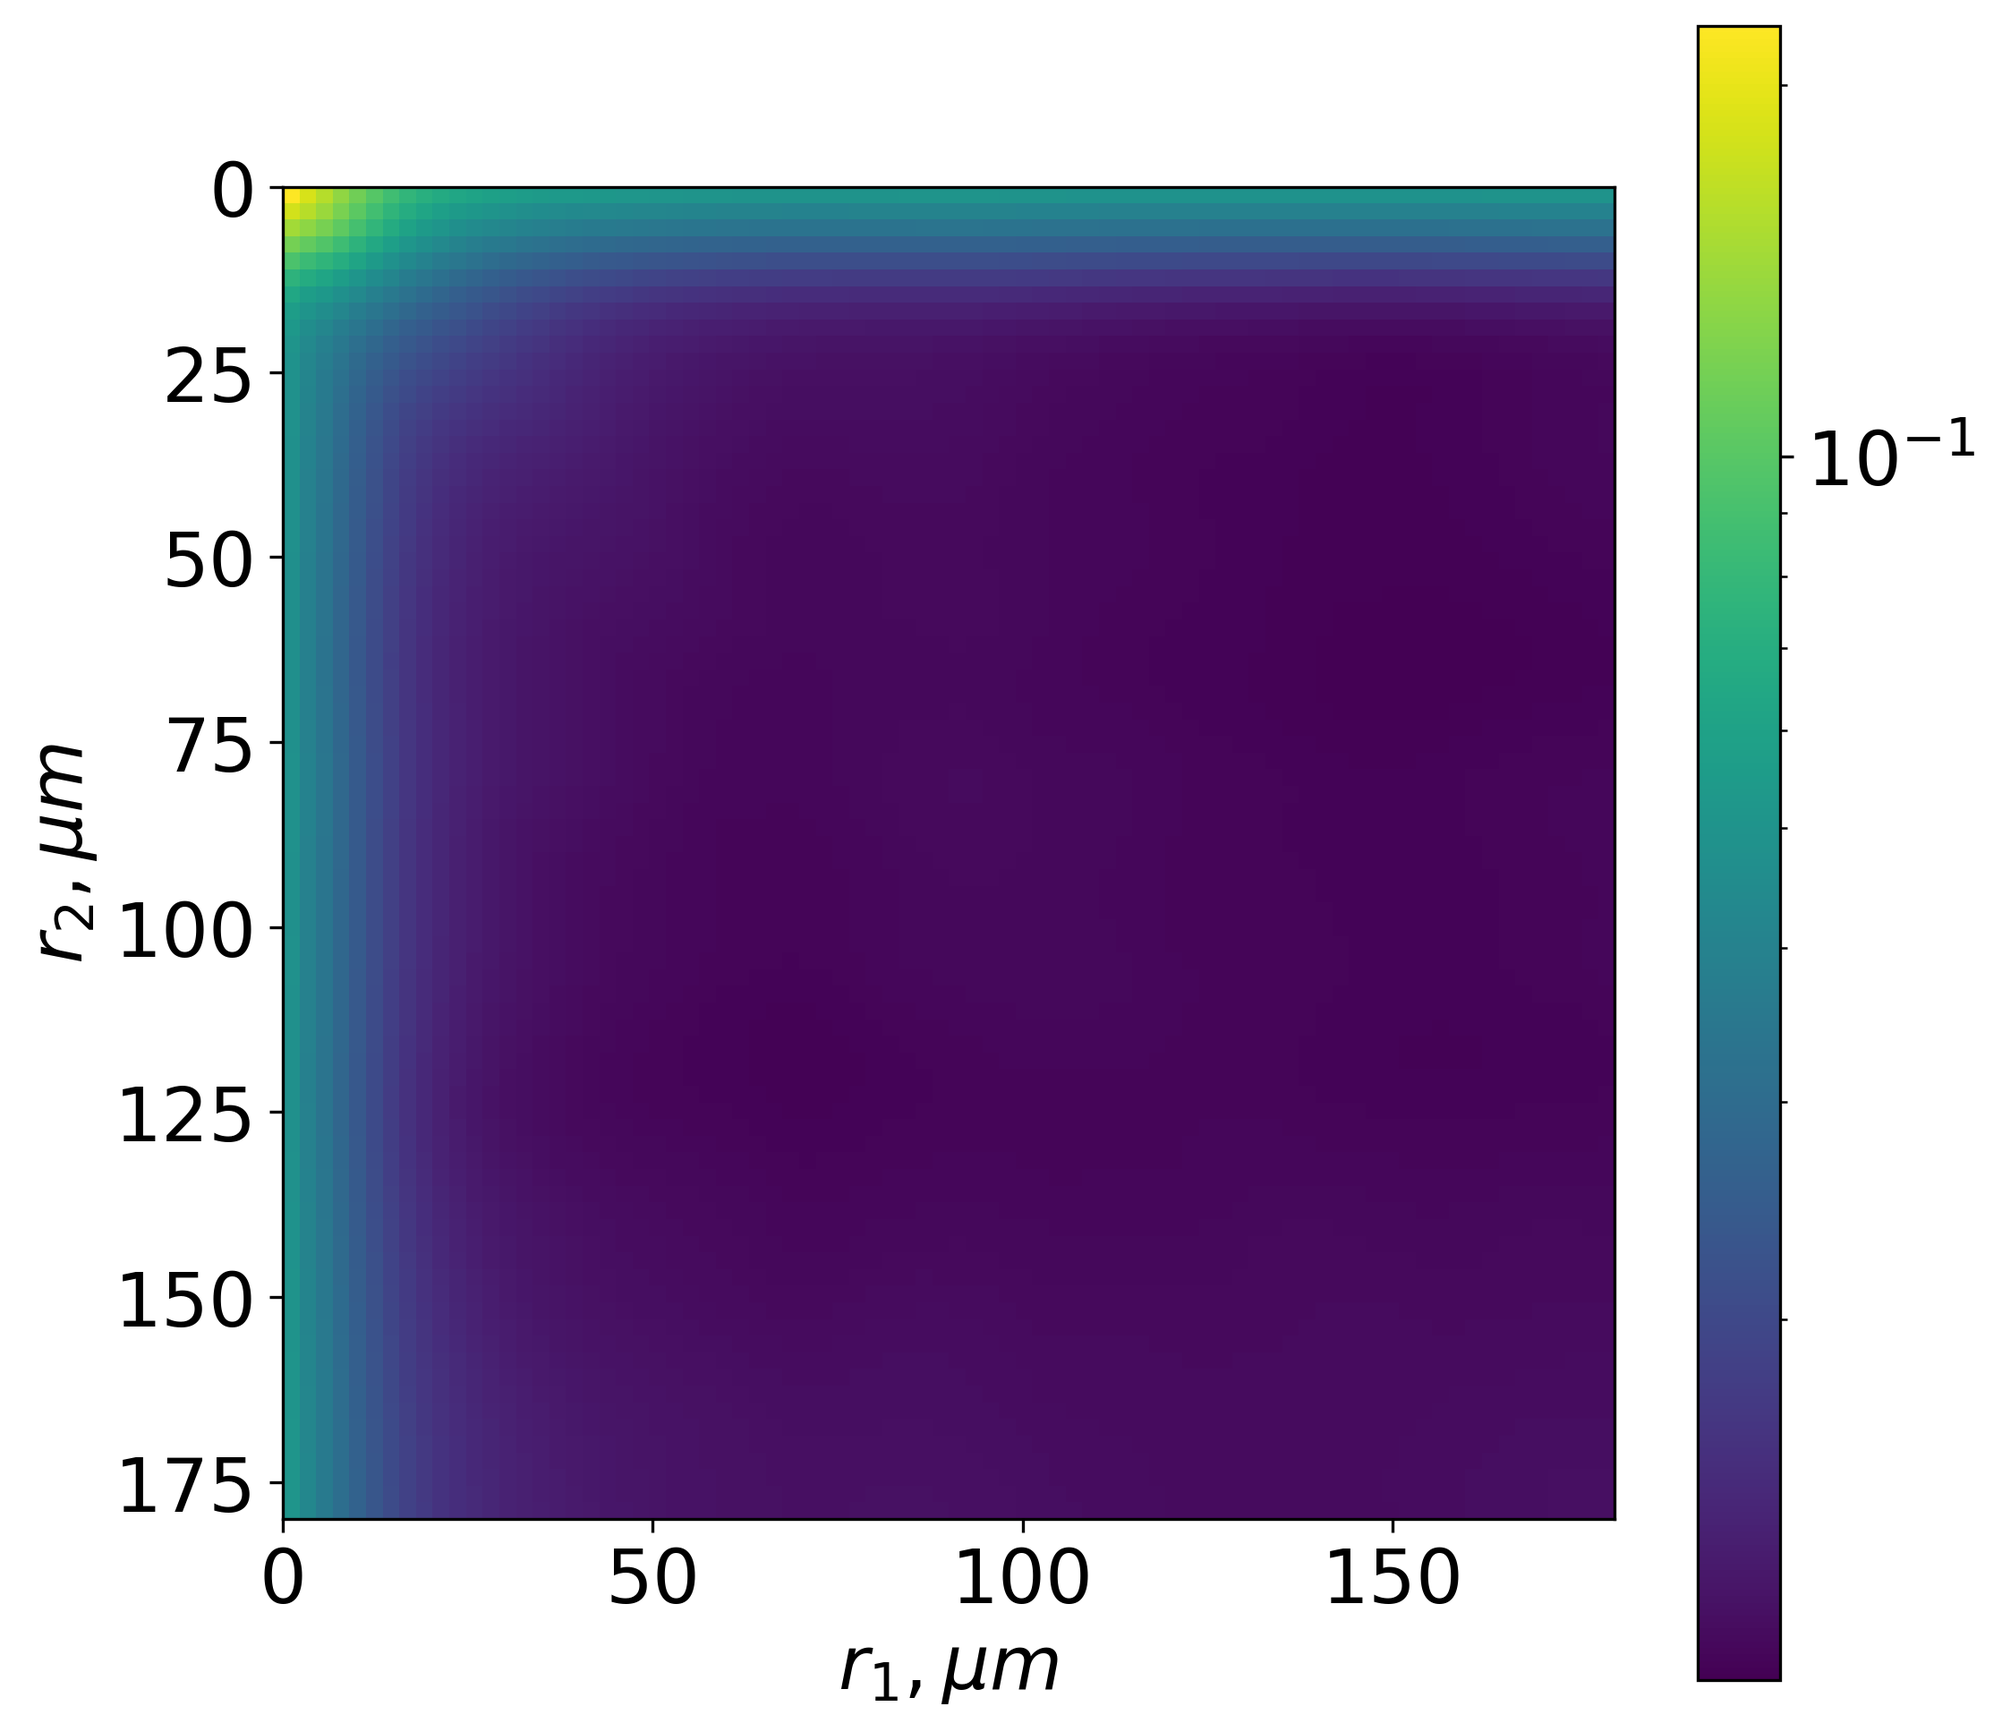
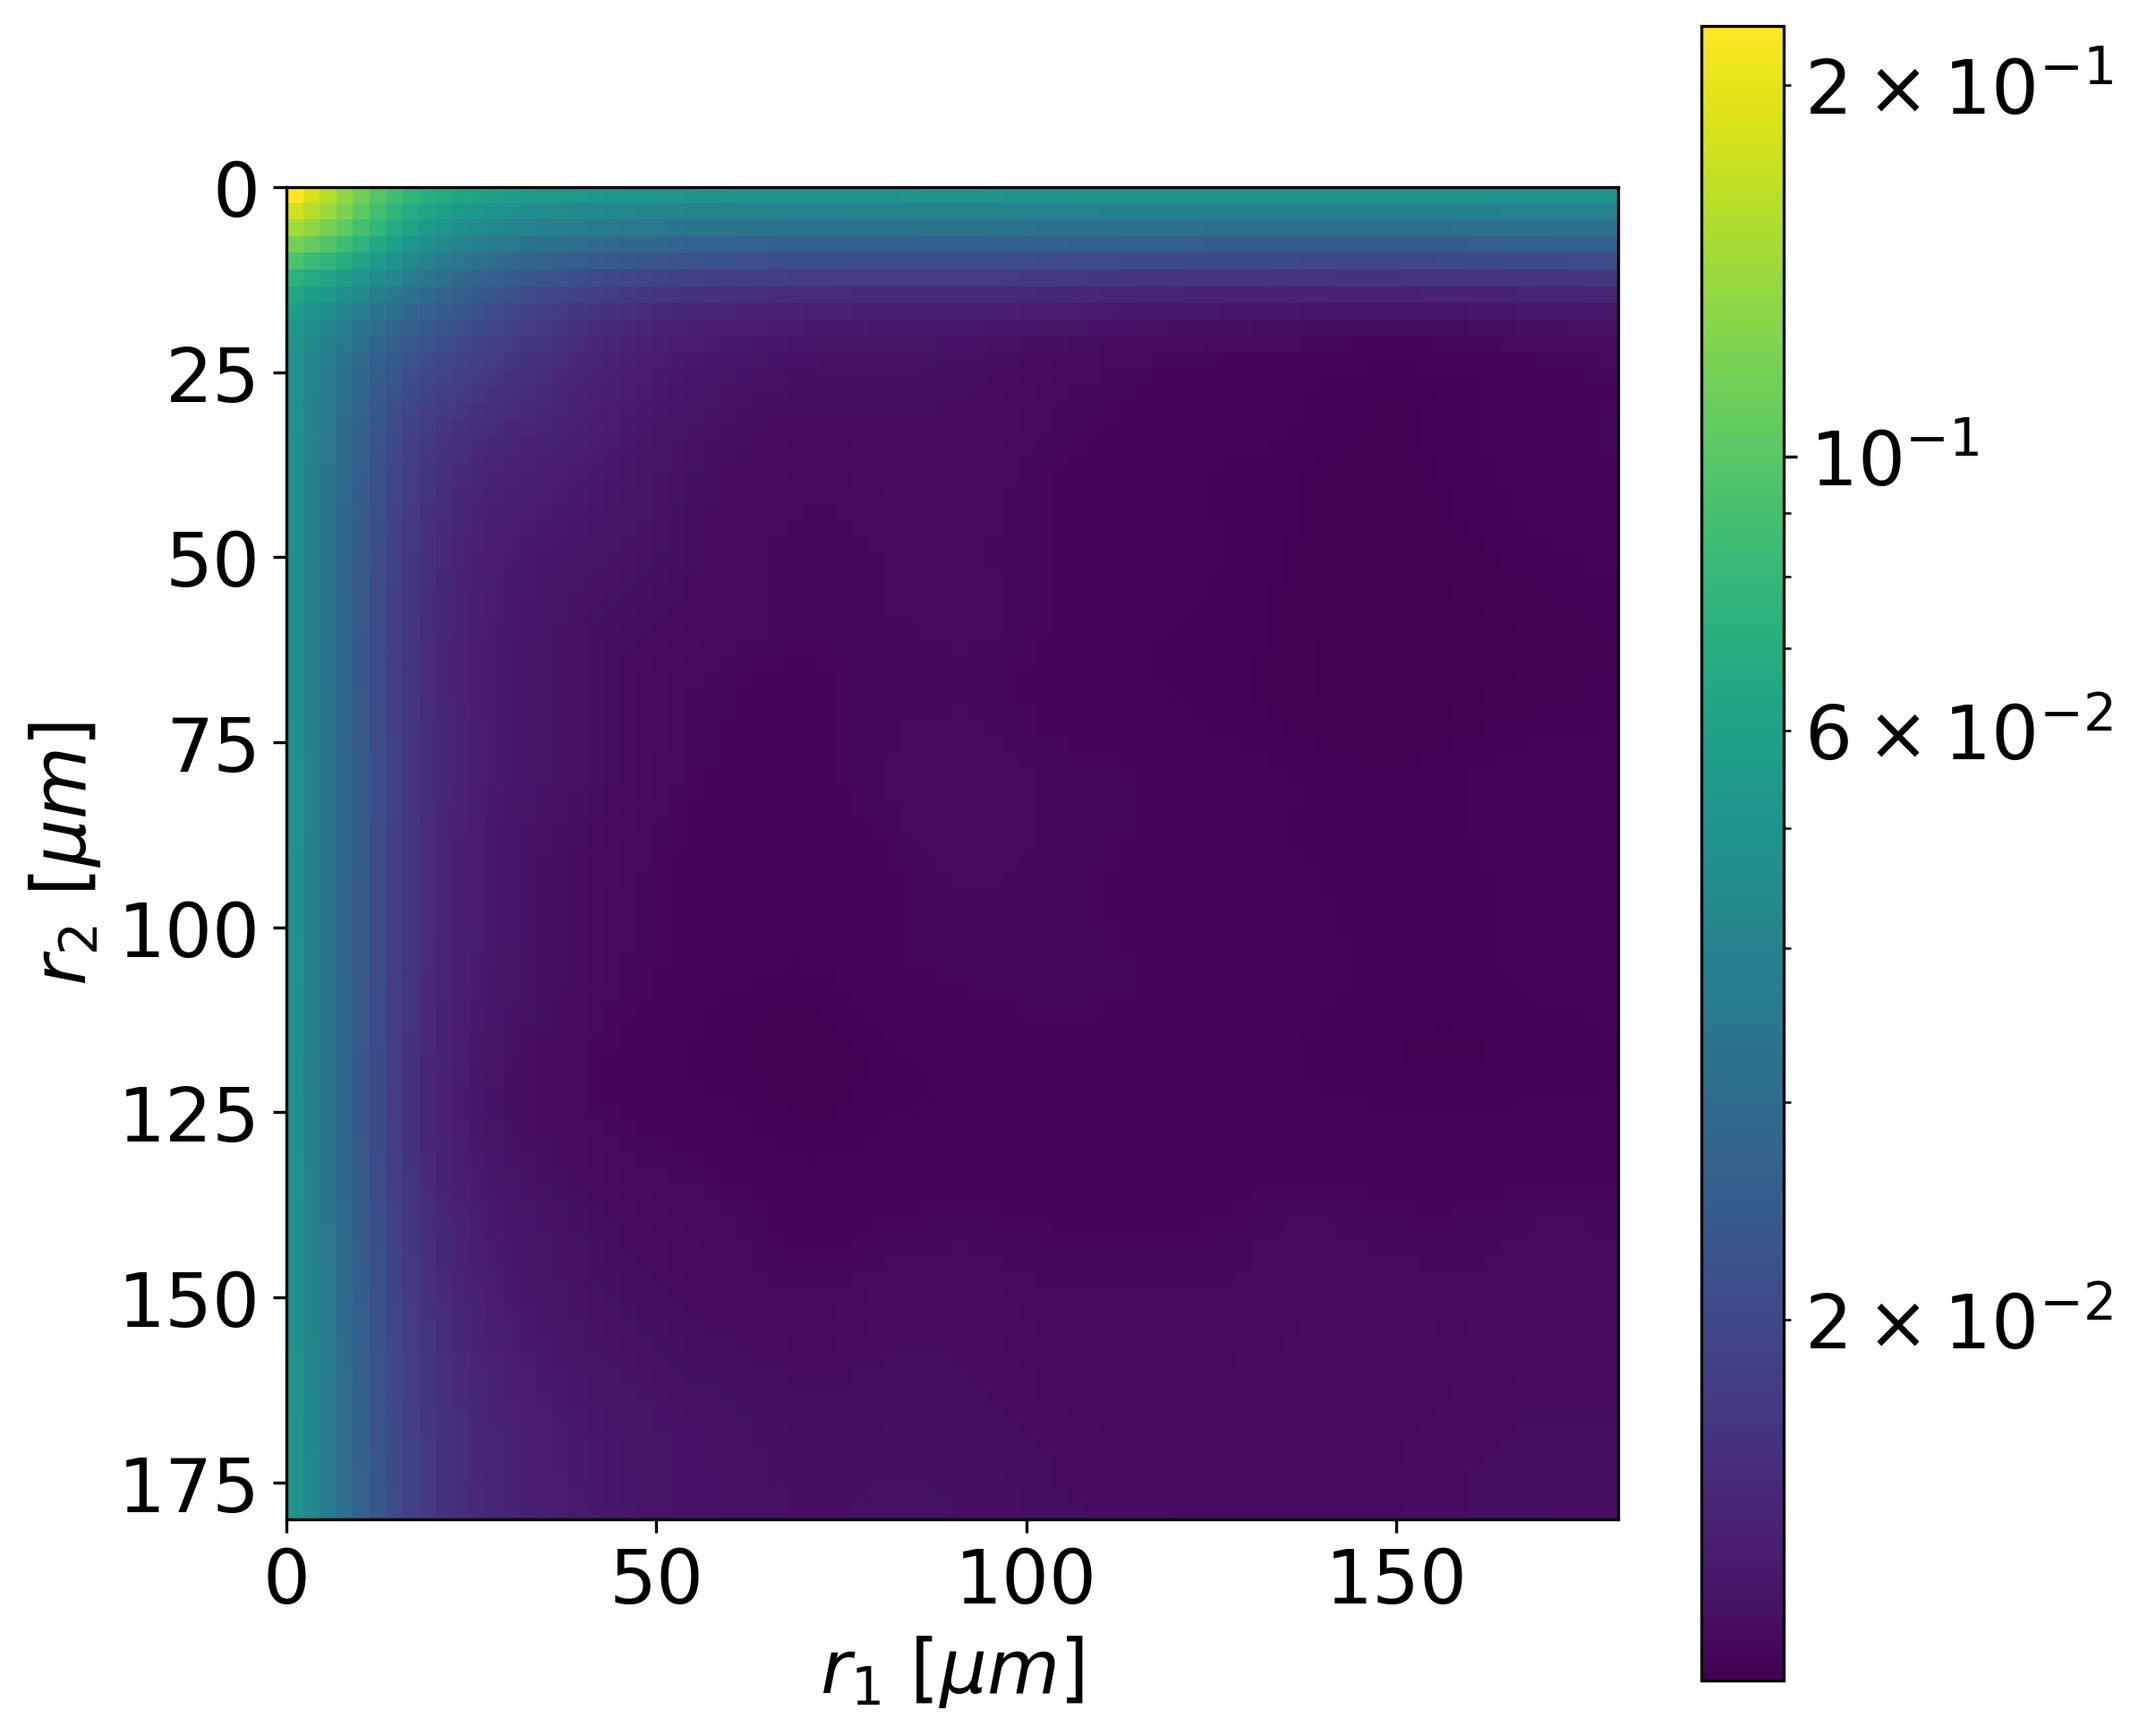
Fix 4 images

Changed region(s): [[0.0, 0.0, 0.987, 0.9922]]

diff --git a/data/heatmap.py b/data/heatmap.py
@@ -2,13 +2,23 @@
 
 import numpy as np
 import matplotlib.pyplot as plt
+from matplotlib import ticker
+import matplotlib as mpl
 
-data = np.load('shale-s3.npy')
+data = np.load('shale-avg.npy')
+
+def fuck(x, pos):
+    if pos%4 == 0:
+        f = ticker.LogFormatterSciNotation(10, False)
+        return f(x)
+    else:
+        return ''
 
 plt.figure(figsize = (8, 8), dpi = 300)
 plt.rc('font', size = 20)
 plt.imshow(data, extent = (0, 160/2*2.25, 160/2*2.25, 0), norm = 'log')
-plt.colorbar()
-plt.xlabel(r'$r_1 \cdot (1, 1, 0), \mu m$')
-plt.ylabel(r'$r_2 \cdot (-1, 1, 0), \mu m$')
-plt.savefig('../images/shale-s3.png', bbox_inches = 'tight')
+cb = plt.colorbar()
+cb.minorformatter = ticker.FuncFormatter(fuck)
+plt.xlabel(r'$r_1\ [\mu m]$')
+plt.ylabel(r'$r_2\ [\mu m]$')
+plt.savefig('../images/shale-avg.png', bbox_inches = 'tight')
